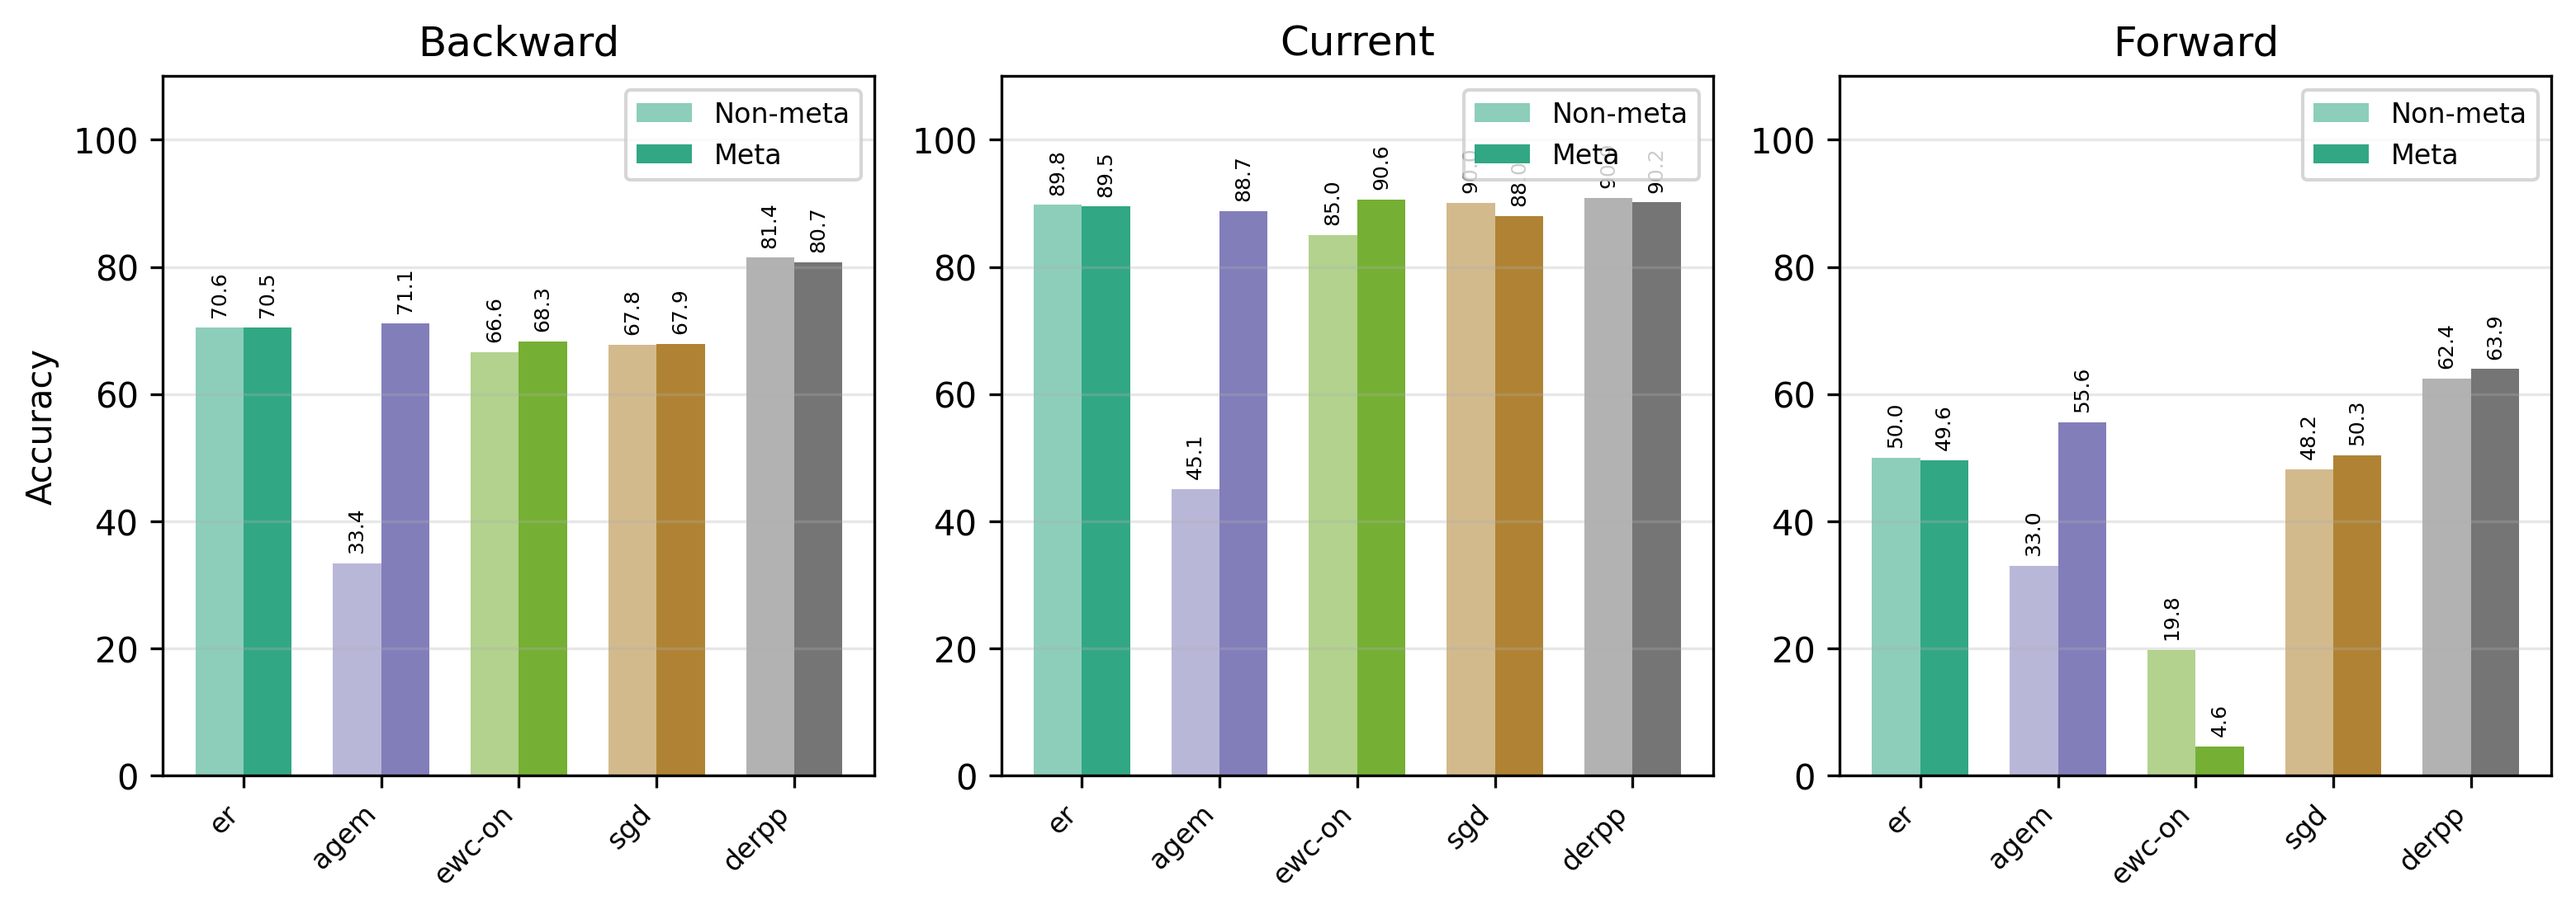
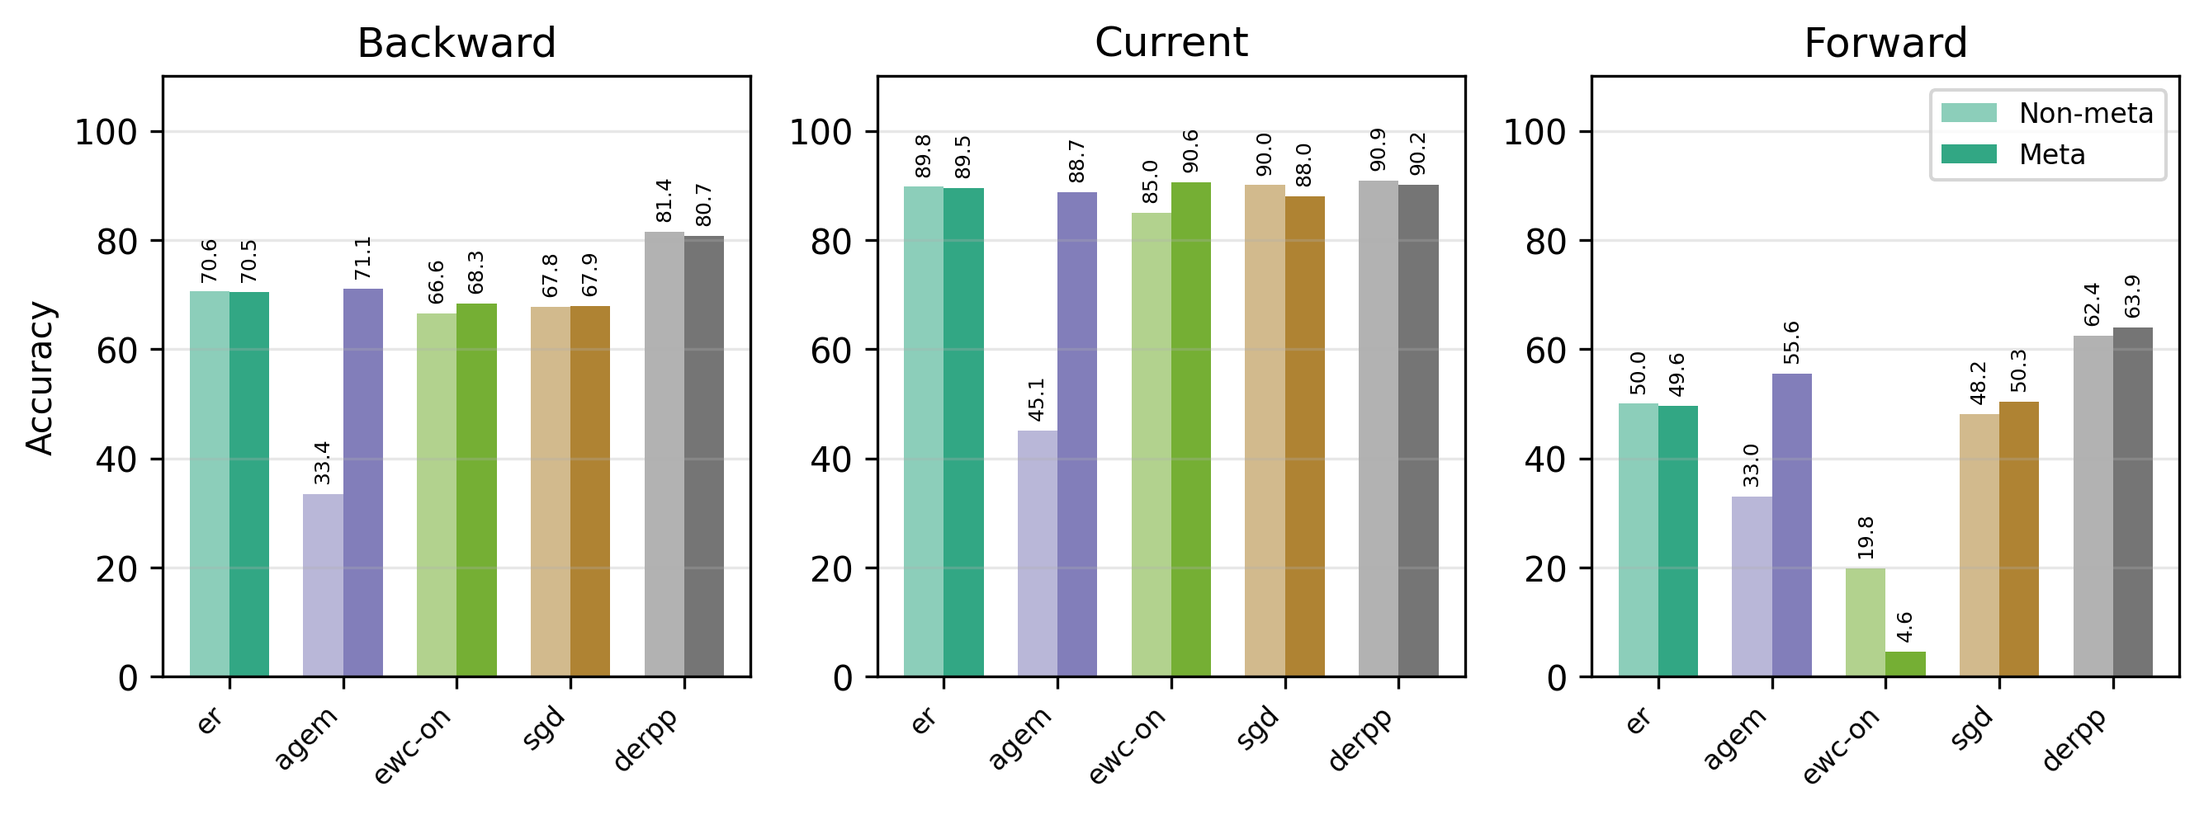
plots

diff --git a/results_for_paper.py b/results_for_paper.py
@@ -1164,7 +1164,7 @@ def plot_meta_improvement(
     # Create figure with 1 row and N columns
     nrows = 1
     ncols = len(directions)
-    fig, axes = plt.subplots(nrows, ncols, figsize=(3.5 * ncols, 4), squeeze=False)
+    fig, axes = plt.subplots(nrows, ncols, figsize=(3 * ncols, 3.5), squeeze=False)
     
     def get_xticklabel(non_meta: str, meta: str) -> str:
         """Create xticklabel: non-meta base + meta with + prefix."""
@@ -1265,7 +1265,8 @@ def plot_meta_improvement(
                           label='Meta', color=colors_meta, alpha=0.9)
         
         # Add legend
-        ax.legend(loc='upper right', fontsize=8)
+        if direction == 'forward':
+            ax.legend(loc='upper right', fontsize=8)
         
         # ax.set_xlabel('Method Pair')
         ax.set_ylabel(metric.capitalize() if col_idx == 0 else '')
